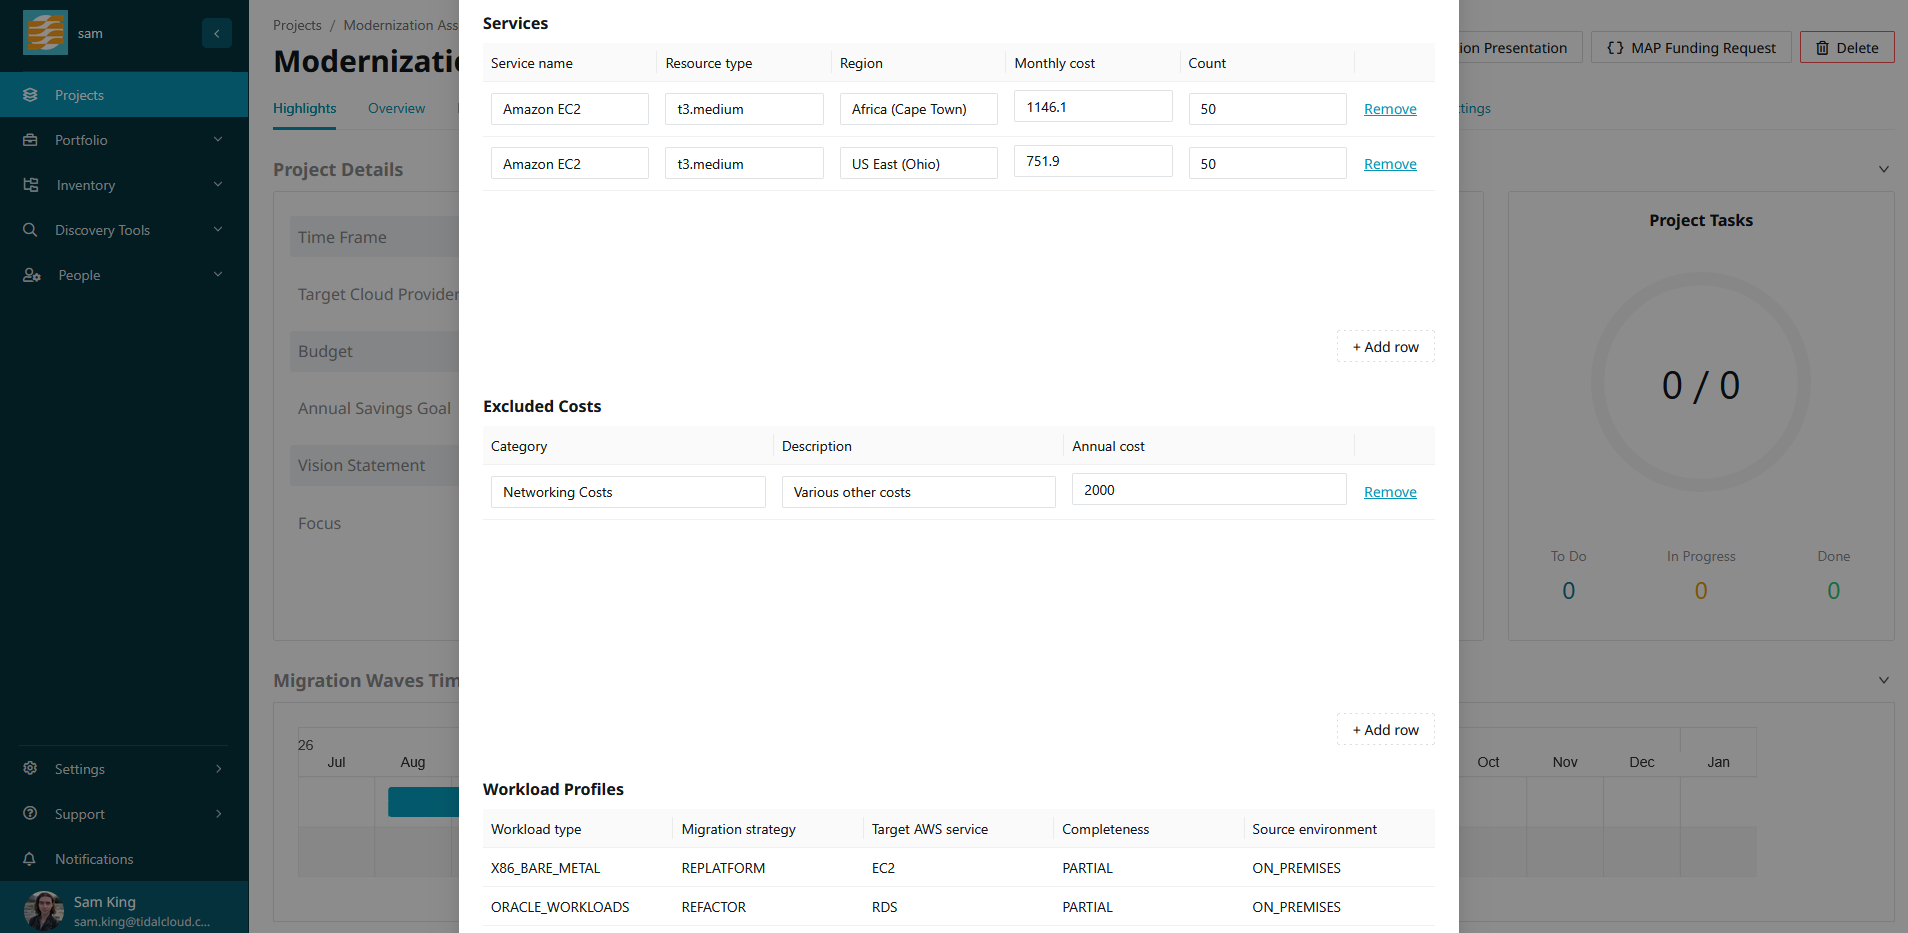
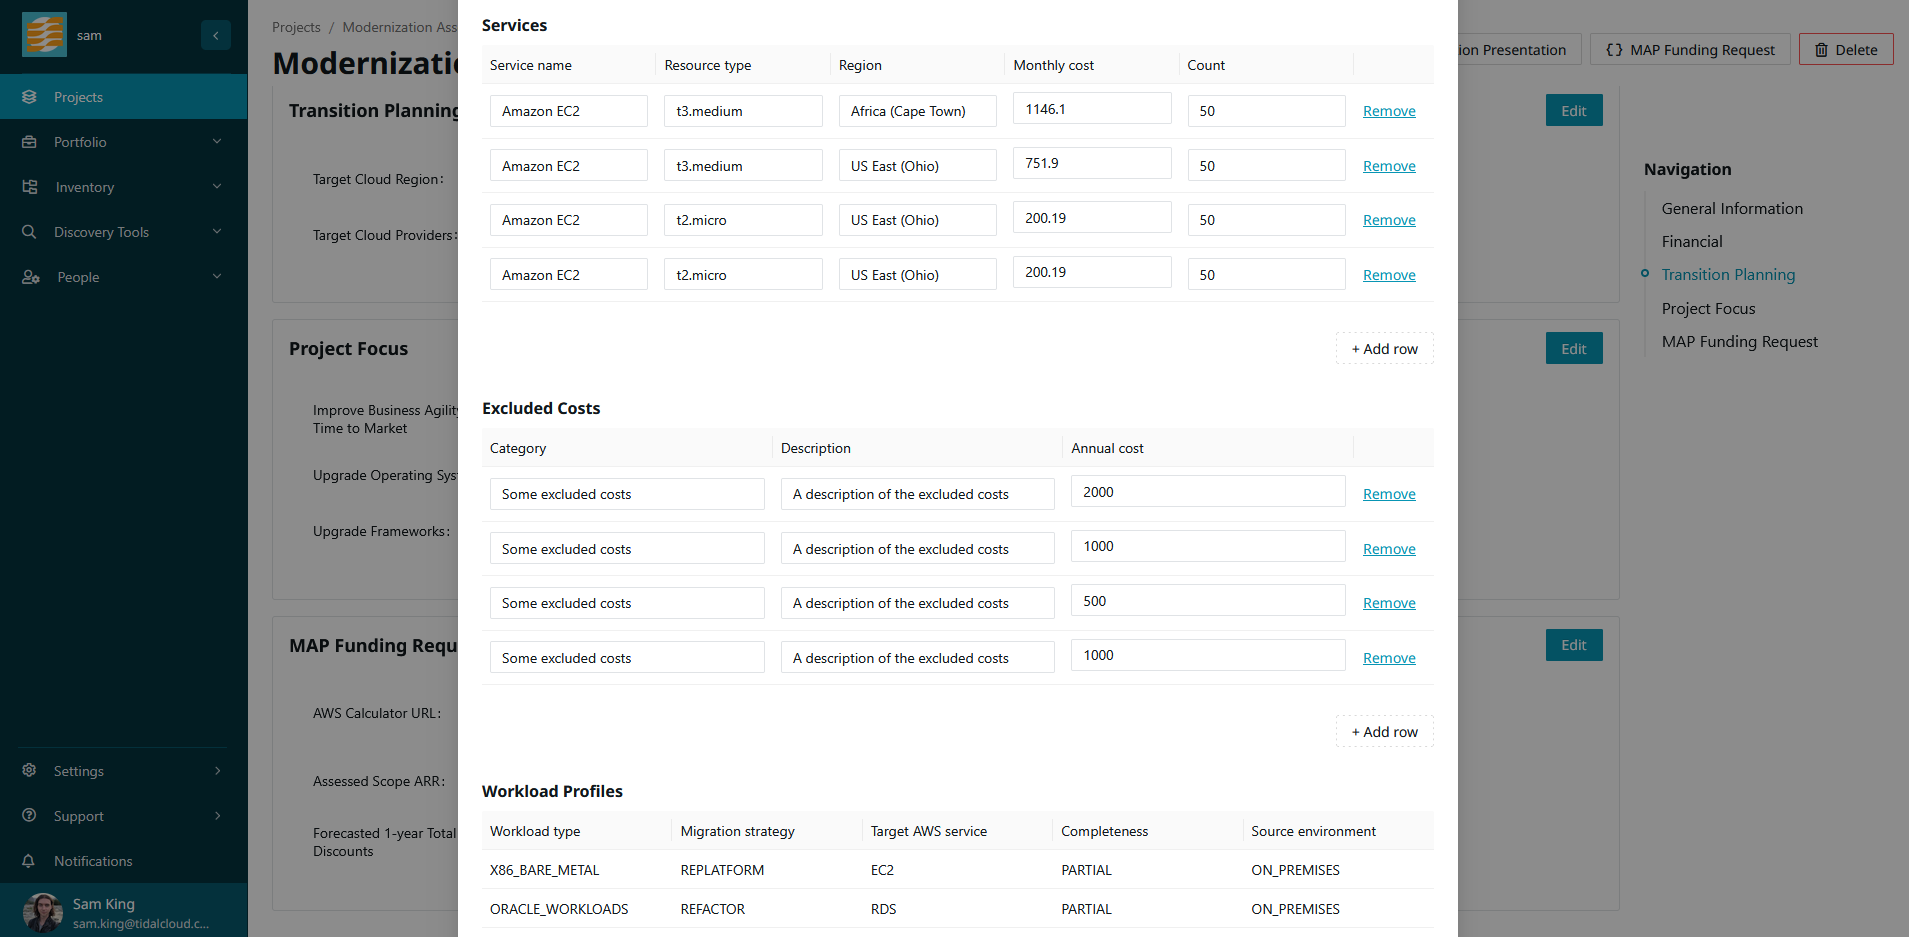
fix: issues in copy, updated screenshots to have more data

diff --git a/pages/assess/map_funding_request.md b/pages/assess/map_funding_request.md
@@ -17,7 +17,7 @@ with an AWS calculator URL.
 ## Before you begin
 
 To create a MAP funding request, you must first organize your apps into a project.
-If you haven't done this yet, see see the [Projects](assessment-projects.html) guide.
+If you haven't done this yet, see the [Projects](assessment-projects.html) guide.
 
 You will then need to save an AWS Calculator link to the project. Several of the
 pricing values in the funding request are derived from this calculator link, so
@@ -34,9 +34,9 @@ section of the Project overview. This will enable the 'MAP funding Request' butt
 
 1. Navigate to the project you want to generate the request for.
 
-1. Click the 'MAP Funding Request' button.
+2. Click the 'MAP Funding Request' button.
 
-   {% include image.html file="![alt text](image.png).png" alt="the MAP Funding Request button on the project view" %}
+{% include image.html file="map-funding-request-2.png" alt="the MAP Funding Request button on the project view" %}
 
 Accelerator fetches the funding request data for the project and displays it for
 you to validate and review. Several values in this data are derived from the project's AWS
